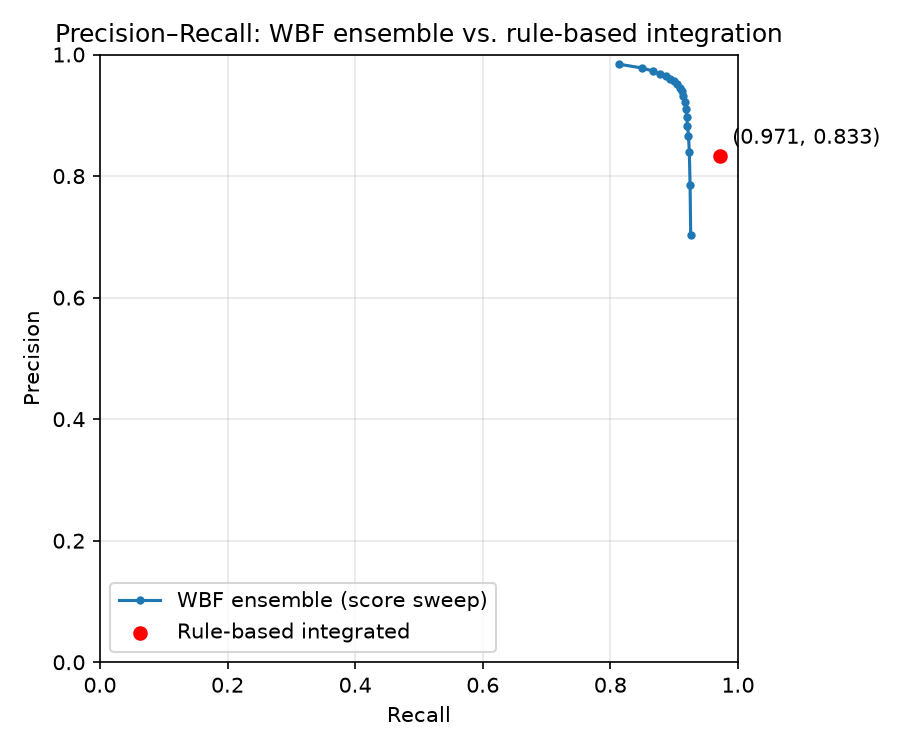
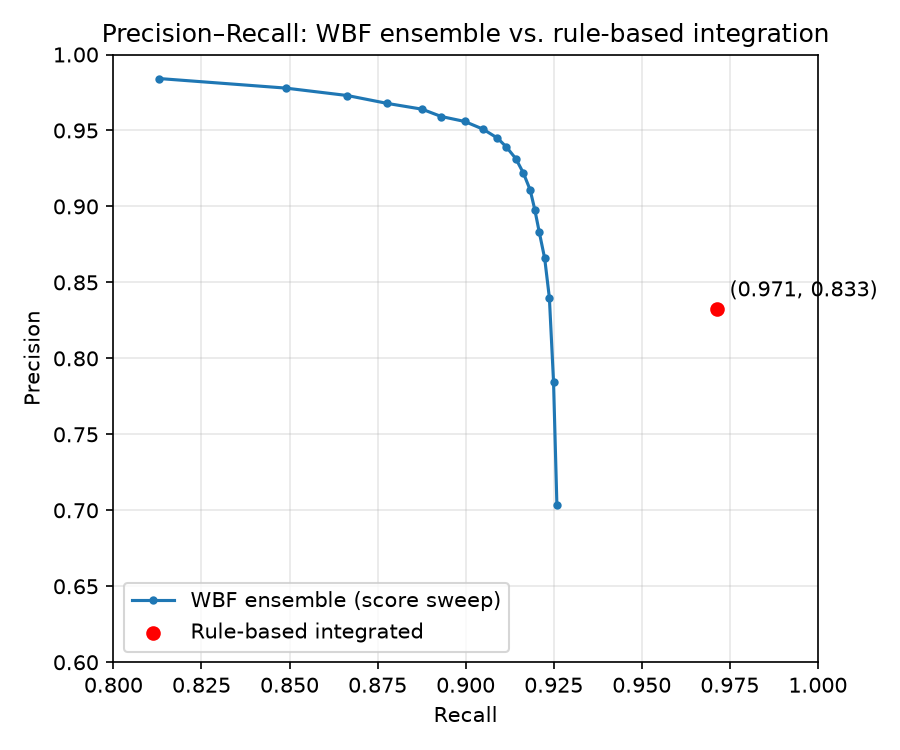
docs(eval): zoom PR-curve axes to [0.8,1]x[0.6,1] for legibility
The curve and integrated point both live in the top-right; zooming makes the
WBF knee and the integrated point's rightward offset (recall 0.971 vs curve
max 0.926) clearly visible. Regenerated pr_curve.png to match.

diff --git a/evaluation/figures.py b/evaluation/figures.py
@@ -17,5 +17,5 @@ def plot_pr_curve(curve, point, out="results/pr_curve.png"):
                 textcoords="offset points", xytext=(6, 6))
     ax.set_xlabel("Recall"); ax.set_ylabel("Precision")
     ax.set_title("Precision–Recall: WBF ensemble vs. rule-based integration")
-    ax.set_xlim(0, 1); ax.set_ylim(0, 1); ax.grid(alpha=0.3); ax.legend(loc="lower left")
+    ax.set_xlim(0.8, 1); ax.set_ylim(0.6, 1); ax.grid(alpha=0.3); ax.legend(loc="lower left")
     fig.tight_layout(); fig.savefig(out, dpi=150); plt.close(fig)
